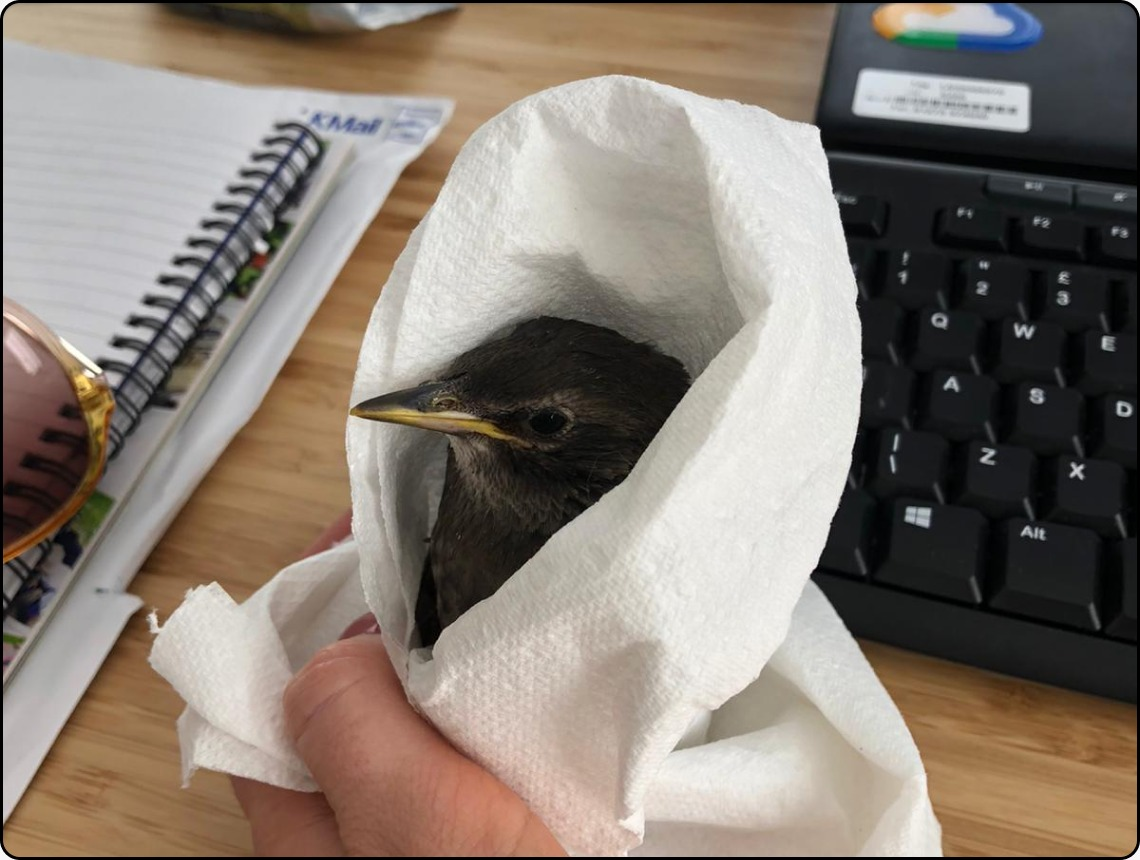
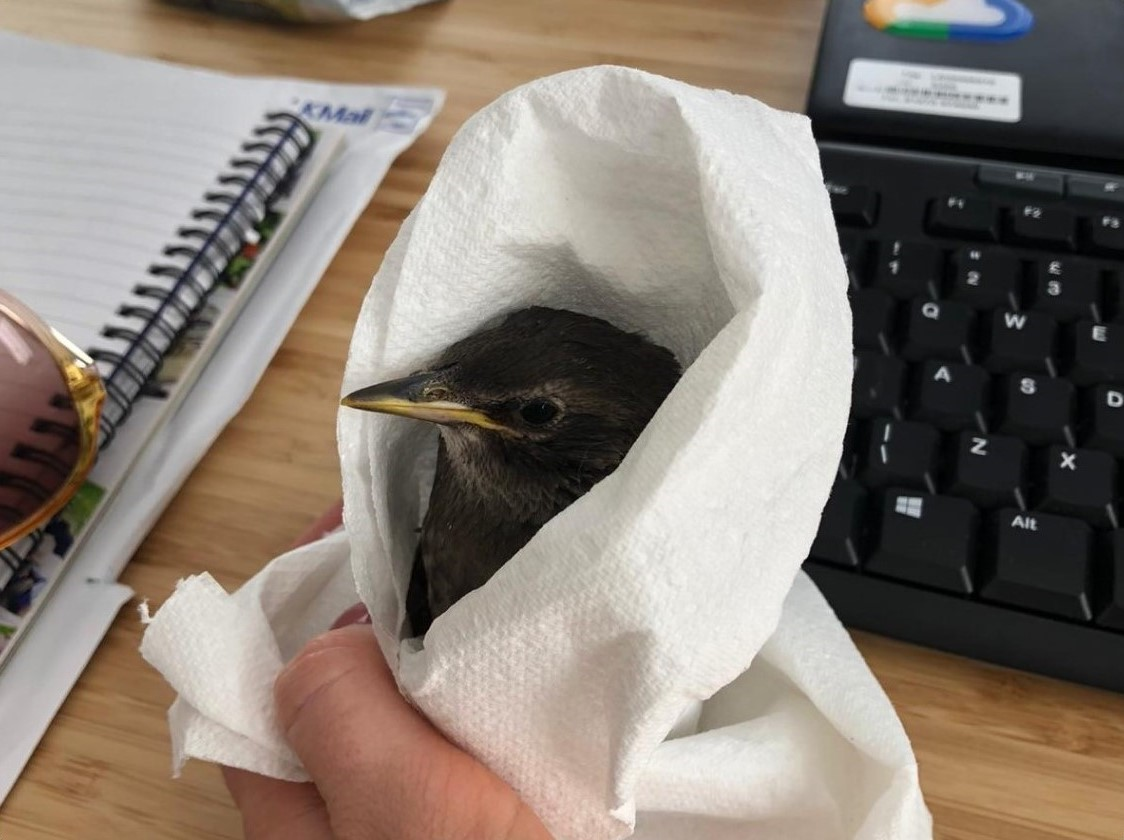
add blog's image border and text-size was edit

diff --git a/Public/Blog.css b/Public/Blog.css
@@ -178,7 +178,6 @@
     position: absolute;
     bottom: 0;
     left: 0;
-
     font-size: 16px;
     font-weight: 500;
     color: #fff;
@@ -195,15 +194,16 @@
 .blog-img img {
     width: 100%;
     height: 100%;
+    border: 2px solid black;
+    border-radius: 2px;
     object-fit: cover;
     object-position: center;
-    /* filter: drop-shadow(0 0 10px #333); */
 }
 
 .blog-text .blog-title,
 .date {
     padding-bottom: 5px;
-    margin-left: 10px;
+    margin-left: 5px;
     display: flex;
     flex-direction: column;
     transform: scale(1.03);
@@ -217,12 +217,11 @@
     flex-direction: column;
     transform: scale(1.03);
     transition: 0.5s;
-}
-
-.blog-text span {
+    font-family: 'Times New Roman';
     color: black;
     font-size: large;
 }
+
 
 .blog-text .blog-title {
     font-size: 1.3rem;
@@ -241,10 +240,12 @@
 
 
 .blog-text .extra {
+    font-family: 'Times New Roman';
     display: none;
 }
 
 .blog-text .original {
+    font-family: 'Times New Roman';
     display: inline;
 }
 
